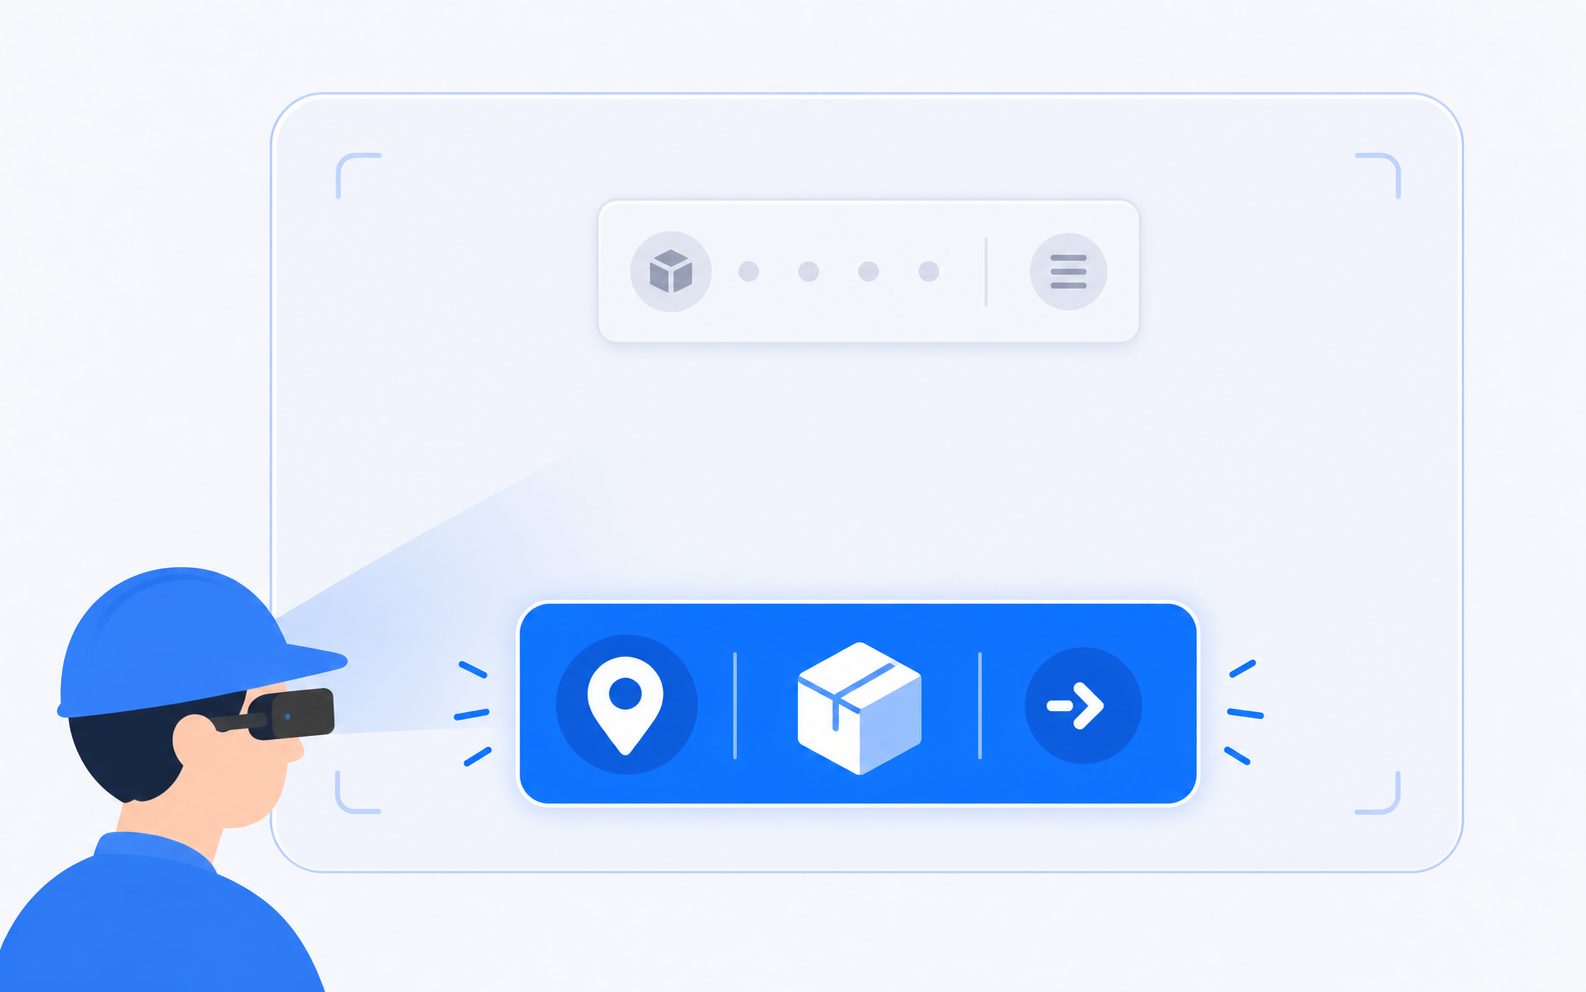
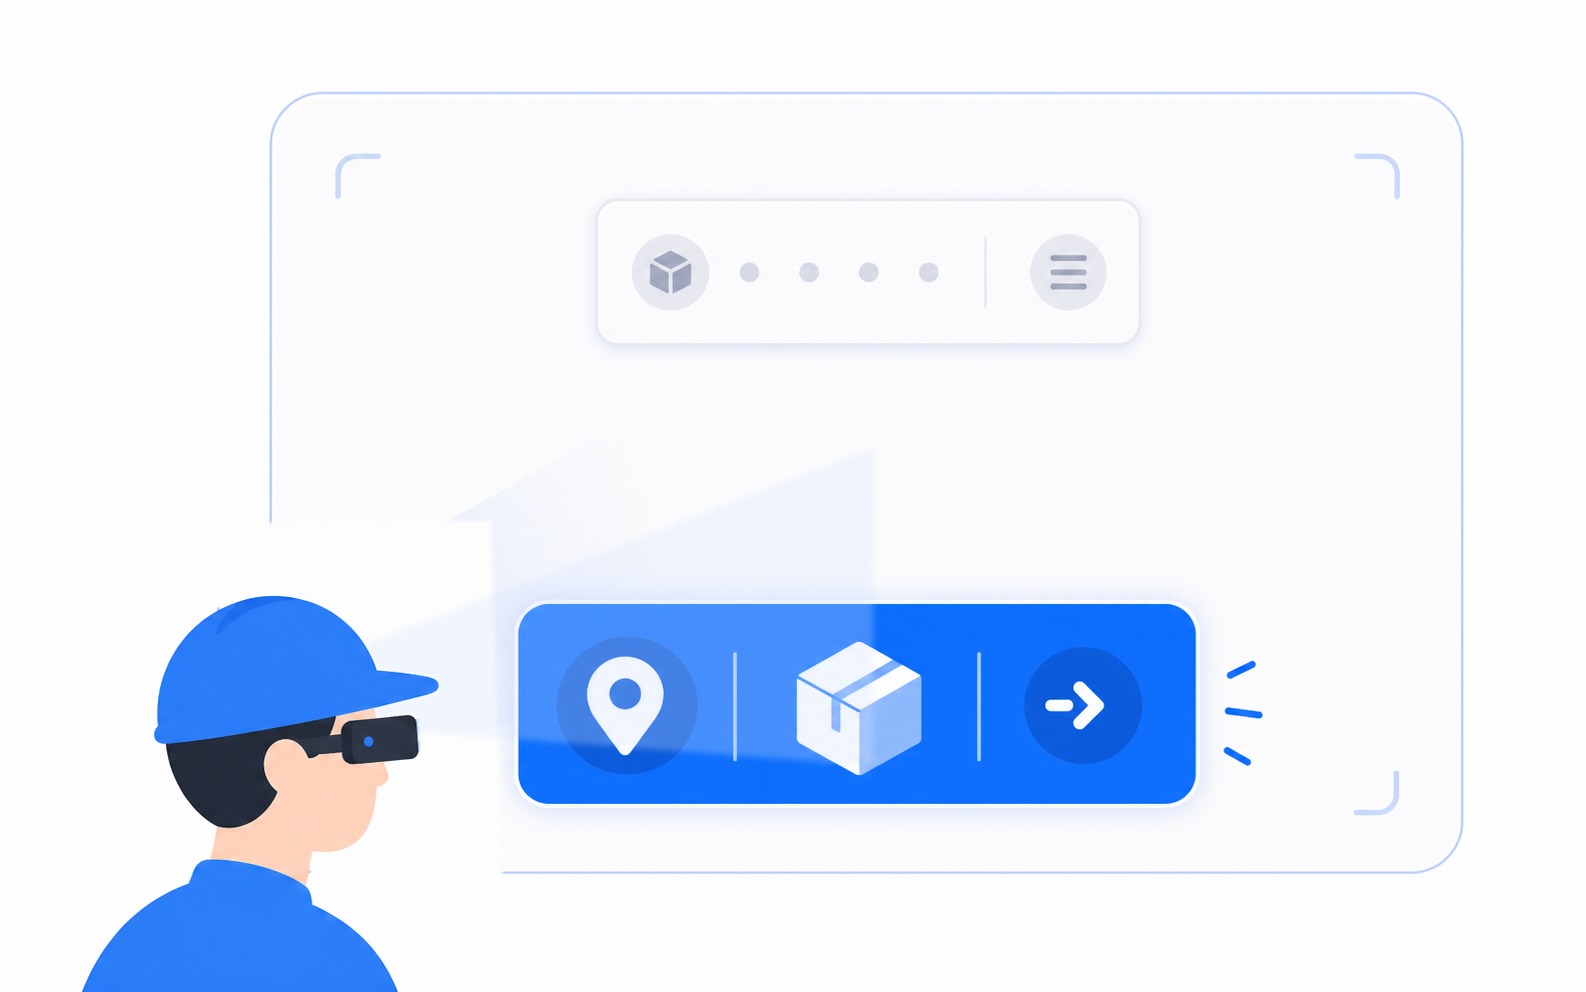
이미지수정

Changed region(s): [[0.0, 0.5, 0.587, 1.0], [0.4016, 0.25, 0.4325, 0.2812]]

diff --git a/index.html b/index.html
@@ -83,7 +83,7 @@
           <div class="principle-text">
             <p class="principle-number">01</p>
             <h3>현재 작업만 노출</h3>
-            <p>현재 수행할 작업만 주요 정보로 강조하여 표시하고,<br>완료된 단계는 화면에서 제거하여 지금 해야 할 하나에 대한 집중을 유도합니다.</p>
+            <p>현재 수행할 작업만 주요 정보로 강조하여 표시하고, 완료된 단계는 화면에서 제거하여 지금 해야 할 하나에 대한 집중을 유도합니다.</p>
           </div>
           <figure class="principle-figure">
             <img src="assets/smart-glass/principle-current-task.png" alt="복잡한 작업 목록 대신 현재 작업만 노출한 화면 비교">
@@ -93,9 +93,11 @@
           <div class="principle-text">
             <p class="principle-number">02</p>
             <h3>이전 정보는 보조 영역에서</h3>
-            <p>완료된 작업 내역은 강조 영역에 두지 않고, 필요할 때 보조 영역에서 확인 가능하게 하여<br>의도치 않은 이전 단계 복귀를 방지합니다.</p>
+            <p>완료된 작업 내역은 강조 영역에 두지 않고, 필요할 때 보조 영역에서 확인 가능하게 하여 의도치 않은 이전 단계 복귀를 방지합니다.</p>
           </div>
-          <figure class="principle-figure"><div class="figure-slot">이미지 영역</div></figure>
+          <figure class="principle-figure">
+            <img src="assets/smart-glass/principle-previous-info.png" alt="이전 정보는 보조 영역에 두고 현재 작업을 강조한 화면 예시">
+          </figure>
         </article>
         <article class="panel">
           <div class="principle-text">
@@ -103,23 +105,29 @@
             <h3>하단 중앙은 핵심 / 상단 중앙은 보조</h3>
             <p>작업 중 가장 잘 보이는 하단 중앙에는 즉시 확인해야 하는 핵심 UI 배치합니다. 안전모 착용 시 하단 영역이 더 안정적으로 보일 수 있습니다. 상시 확인이 필요 없는 보조 정보는 상단 중앙에 배치합니다.</p>
           </div>
-          <figure class="principle-figure"><div class="figure-slot">이미지 영역</div></figure>
+          <figure class="principle-figure">
+            <img src="assets/smart-glass/principle-bottom-primary-top-secondary.png" alt="하단 중앙에는 핵심 정보를 두고 상단 중앙에는 보조 정보를 둔 화면 예시">
+          </figure>
         </article>
         <article class="panel">
           <div class="principle-text">
             <p class="principle-number">04</p>
             <h3>확실한 시각·청각 피드백</h3>
-            <p>자동 화면 전환, 오인식 상황을 줄이기 위해 <br>성공과 실패를 시각(색상 변화, 상태 메시지)과 청각(효과음, 음성 안내) 두 채널로 동시 전달하여 <br>어떤 작업 환경에서든 피드백 누락 방지</p>
+            <p>자동 화면 전환, 오인식 상황을 줄이기 위해 성공과 실패를 시각(색상 변화, 상태 메시지)과 청각(효과음, 음성 안내) 두 채널로 동시 전달하여 어떤 작업 환경에서든 피드백 누락 방지</p>
           </div>
-          <figure class="principle-figure"><div class="figure-slot">이미지 영역</div></figure>
+          <figure class="principle-figure">
+            <img src="assets/smart-glass/principle-visual-audio-feedback.png" alt="시각과 청각 피드백을 함께 전달하는 스마트글라스 화면 예시">
+          </figure>
         </article>
         <article class="panel">
           <div class="principle-text">
             <p class="principle-number">05</p>
             <h3>최대 3줄</h3>
-            <p>상시 노출되는 작업 정보는 1줄 핵심 + 1줄 보조를 권장하며, 필요한 경우에만 3줄을 사용합니다.<br>정보와 UI 요소를 과도하게 담지 않고, 작업에 필요한 최소 정보만 노출합니다.</p>
+            <p>상시 노출되는 작업 정보는 1줄 핵심 + 1줄 보조를 권장하며, 필요한 경우에만 3줄을 사용합니다. 정보와 UI 요소를 과도하게 담지 않고, 작업에 필요한 최소 정보만 노출합니다.</p>
           </div>
-          <figure class="principle-figure"><div class="figure-slot">이미지 영역</div></figure>
+          <figure class="principle-figure">
+            <img src="assets/smart-glass/principle-max-three-lines.png" alt="최대 세 줄 안에서 핵심 작업 정보를 간결하게 보여주는 스마트글라스 화면 예시">
+          </figure>
         </article>
         <article class="panel">
           <div class="principle-text">
@@ -127,7 +135,9 @@
             <h3 style="font-weight: 700">표시 정보는 프로젝트별로 정의</h3>
             <p style="font-weight: 400">실제 표시 정보(BIN, SKU, 모델명 등), 주요 컬러는 프로젝트별로 정의합니다.</p>
           </div>
-          <figure class="principle-figure"><div class="figure-slot">이미지 영역</div></figure>
+          <figure class="principle-figure">
+            <img src="assets/smart-glass/principle-project-defined-info.png" alt="프로젝트별 표시 정보와 주요 컬러를 조합해 정의하는 스마트글라스 화면 예시">
+          </figure>
         </article>
       </div>
       

diff --git a/index.dc.html b/index.dc.html
@@ -83,7 +83,7 @@
           <div class="principle-text">
             <p class="principle-number">01</p>
             <h3>현재 작업만 노출</h3>
-            <p>현재 수행할 작업만 주요 정보로 강조하여 표시하고,<br>완료된 단계는 화면에서 제거하여 지금 해야 할 하나에 대한 집중을 유도합니다.</p>
+            <p>현재 수행할 작업만 주요 정보로 강조하여 표시하고, 완료된 단계는 화면에서 제거하여 지금 해야 할 하나에 대한 집중을 유도합니다.</p>
           </div>
           <figure class="principle-figure">
             <img src="assets/smart-glass/principle-current-task.png" alt="복잡한 작업 목록 대신 현재 작업만 노출한 화면 비교">
@@ -93,7 +93,7 @@
           <div class="principle-text">
             <p class="principle-number">02</p>
             <h3>이전 정보는 보조 영역에서</h3>
-            <p>완료된 작업 내역은 강조 영역에 두지 않고, 필요할 때 보조 영역에서 확인 가능하게 하여<br>의도치 않은 이전 단계 복귀를 방지합니다.</p>
+            <p>완료된 작업 내역은 강조 영역에 두지 않고, 필요할 때 보조 영역에서 확인 가능하게 하여 의도치 않은 이전 단계 복귀를 방지합니다.</p>
           </div>
           <figure class="principle-figure">
             <img src="assets/smart-glass/principle-previous-info.png" alt="이전 정보는 보조 영역에 두고 현재 작업을 강조한 화면 예시">
@@ -113,17 +113,21 @@
           <div class="principle-text">
             <p class="principle-number">04</p>
             <h3>확실한 시각·청각 피드백</h3>
-            <p>자동 화면 전환, 오인식 상황을 줄이기 위해 <br>성공과 실패를 시각(색상 변화, 상태 메시지)과 청각(효과음, 음성 안내) 두 채널로 동시 전달하여 <br>어떤 작업 환경에서든 피드백 누락 방지</p>
+            <p>자동 화면 전환, 오인식 상황을 줄이기 위해 성공과 실패를 시각(색상 변화, 상태 메시지)과 청각(효과음, 음성 안내) 두 채널로 동시 전달하여 어떤 작업 환경에서든 피드백 누락 방지</p>
           </div>
-          <figure class="principle-figure"><div class="figure-slot">이미지 영역</div></figure>
+          <figure class="principle-figure">
+            <img src="assets/smart-glass/principle-visual-audio-feedback.png" alt="시각과 청각 피드백을 함께 전달하는 스마트글라스 화면 예시">
+          </figure>
         </article>
         <article class="panel">
           <div class="principle-text">
             <p class="principle-number">05</p>
             <h3>최대 3줄</h3>
-            <p>상시 노출되는 작업 정보는 1줄 핵심 + 1줄 보조를 권장하며, 필요한 경우에만 3줄을 사용합니다.<br>정보와 UI 요소를 과도하게 담지 않고, 작업에 필요한 최소 정보만 노출합니다.</p>
+            <p>상시 노출되는 작업 정보는 1줄 핵심 + 1줄 보조를 권장하며, 필요한 경우에만 3줄을 사용합니다. 정보와 UI 요소를 과도하게 담지 않고, 작업에 필요한 최소 정보만 노출합니다.</p>
           </div>
-          <figure class="principle-figure"><div class="figure-slot">이미지 영역</div></figure>
+          <figure class="principle-figure">
+            <img src="assets/smart-glass/principle-max-three-lines.png" alt="최대 세 줄 안에서 핵심 작업 정보를 간결하게 보여주는 스마트글라스 화면 예시">
+          </figure>
         </article>
         <article class="panel">
           <div class="principle-text">
@@ -131,7 +135,9 @@
             <h3 style="font-weight: 700">표시 정보는 프로젝트별로 정의</h3>
             <p style="font-weight: 400">실제 표시 정보(BIN, SKU, 모델명 등), 주요 컬러는 프로젝트별로 정의합니다.</p>
           </div>
-          <figure class="principle-figure"><div class="figure-slot">이미지 영역</div></figure>
+          <figure class="principle-figure">
+            <img src="assets/smart-glass/principle-project-defined-info.png" alt="프로젝트별 표시 정보와 주요 컬러를 조합해 정의하는 스마트글라스 화면 예시">
+          </figure>
         </article>
       </div>
       

diff --git a/smart-glass-design-system.css b/smart-glass-design-system.css
@@ -574,6 +574,11 @@ h1 {
   box-shadow: 0 18px 46px rgba(0, 35, 128, 0.18);
 }
 
+.principles-section .panel:nth-child(n + 3) {
+  padding-top: 18px;
+  padding-bottom: 18px;
+}
+
 .principles-section .principle-text {
   display: flex;
   flex-direction: column;
@@ -595,13 +600,15 @@ h1 {
 .principles-section .principle-figure {
   flex: 0 1 min(44%, 420px);
   margin: 0;
+  border-radius: 0;
+  overflow: visible;
 }
 
 .principles-section .principle-figure img,
 .principles-section .figure-slot {
   width: 100%;
   aspect-ratio: var(--principle-image-ratio, 1586 / 992);
-  border-radius: 8px;
+  border-radius: 0;
 }
 
 .principles-section .principle-figure img {